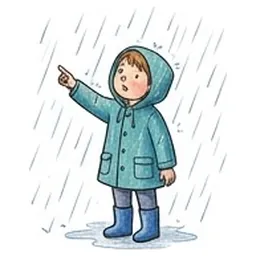
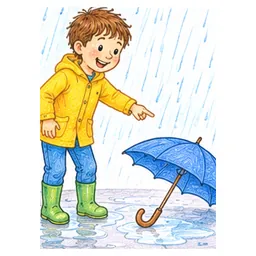
Allemand : planche B (n° 94 à 102 et brauchen refait)
Claude-Session: https://claude.ai/code/session_01UkP11uCuPaN6MyB6YyqYQX

diff --git a/jeux/allemand-mots.js b/jeux/allemand-mots.js
@@ -101,7 +101,7 @@ var DE_SVG={
 };
 function deSlug(w){return w.replace(/ä/g,"ae").replace(/ö/g,"oe").replace(/ü/g,"ue").replace(/Ä/g,"Ae").replace(/Ö/g,"Oe").replace(/Ü/g,"Ue").replace(/ß/g,"ss")}
 function deImg(w){return '<img class="deimg" src="jeux/img/de/'+deSlug(w)+'.webp" alt="" draggable="false" style="width:1.3em;height:1.3em;vertical-align:-.25em;border-radius:.18em;object-fit:contain">'}
-var DE_IMG=["Ampel","Anker","Apfel","Auge","Ball","Baum","Berg","Besen","Biene","Bleistift","Blume","Bohne","Brot","Brunnen","Buch","Bus","Butter","Bäume","Dose","Dreieck","Durst","Ei","Europa","Fahne","Feder","Flöte","Freund","Freundin","Füße","Gabel","Gans","Giraffe","Glas","Gras","Hahn","Hamster","Hand","Haus","Hexe","Hände","Häslein","Häuser","Idee","Jacke","Jahr","Junge","Jäger","Kajak","Katze","Keks","Kerze","Kessel","Kind","Kinder","Kiste","Klasse","Kleber","Klecks","Kleider","Klementine","Knicks","Koffer","Korb","Kreuzung","Kuh","Küken","Kürbis","Laterne","Lied","Lineal","Maler","Mantel","Mauer","Maus","Maßband","Milch","Mond","Musik","Mädchen","Mäppchen","Mäuse","Möhre","Nase","Nebel","Obst","Ohr","Orangensaft","Pause","Pfeife","Pferd","Pinsel","Preis","Pyramide","Qualle","Radiergummi","Regen","Reihe","Schnee","Schornsteinfeger","Schule","Schulhof","Schulranzen","Schwanz","Schüler","Schülerin","Spinne","Spitzer","Spritzgebäck","Stamm","Stiel","Strauß","Streifen","Süßigkeit","Tafel","Tannenbaum","Tasse","Tisch","Traube","Uhr","Viereck","Vogel","Vögel","Wachsmalkreide","Wald","Winter","Zeh","Zeitung","Ziege","angeln","arbeiten","basteln","beugen","blau","brauchen","braun","brennen","brüten","bunt","böse","denken","durch","falten","fliegen","froh","füttern","gelb","gut","helfen","hinter","ich","jubeln","kalt","klein","kneten","lachen","laut","lesen","leuchten","lila","links","malen","mixen","neun","piksen","pusten","raus","rechts","reißen","richtig","riechen","riesig","rot","rutschen","schnell","schwarz","schwimmen","sechs","sieben","singen","sonnig","springen","stampfen","suchen","säen","tanzen","teilen","trinken","unter","viel","voll","warm","weiß","wenig","zwei","zwölf","über"]; // mots illustrés par une image Gemini (jeux/img/de/<mot>.webp), prioritaires sur emoji et dessins
+var DE_IMG=["Ampel","Anker","Apfel","Auge","Ball","Baum","Berg","Besen","Biene","Bleistift","Blume","Bohne","Brot","Brunnen","Buch","Bus","Butter","Bäume","Dieb","Dose","Dreieck","Durst","Ei","Europa","Fahne","Feder","Flöte","Freund","Freundin","Fuß","Füße","Gabel","Gans","Giraffe","Glas","Gras","Hahn","Hamster","Hand","Haus","Hexe","Hände","Häslein","Häuser","Idee","Jacke","Jahr","Junge","Jäger","Kajak","Katze","Keks","Kerze","Kessel","Kind","Kinder","Kiste","Klasse","Kleber","Klecks","Kleider","Klementine","Knicks","Koffer","Korb","Kreuzung","Kuh","Küken","Kürbis","Laterne","Lied","Lineal","Maler","Mantel","Mauer","Maus","Maßband","Milch","Mond","Musik","Mädchen","Mäppchen","Mäuse","Möhre","Nase","Nebel","Obst","Ohr","Orangensaft","Pause","Pfeife","Pferd","Pinsel","Preis","Pyramide","Qualle","Radiergummi","Regen","Reihe","Sand","Schnee","Schornsteinfeger","Schule","Schulhof","Schulranzen","Schwanz","Schüler","Schülerin","Spinne","Spitzer","Spritzgebäck","Stamm","Stiel","Strauß","Streifen","Süßigkeit","Tafel","Tannenbaum","Tasse","Tisch","Traube","Uhr","Vase","Viereck","Vogel","Vögel","Wachsmalkreide","Wald","Weg","Wiese","Winter","Zeh","Zeitung","Ziege","angeln","arbeiten","basteln","beugen","blau","brauchen","braun","brennen","brüten","bunt","böse","denken","durch","falten","fliegen","froh","füttern","gelb","gießen","gut","helfen","hinter","ich","jubeln","jung","kalt","klein","kneten","lachen","laut","lesen","leuchten","lila","links","malen","mixen","neun","piksen","pusten","raus","rechts","reißen","richtig","riechen","riesig","rot","rutschen","schnell","schwarz","schwimmen","sechs","sieben","singen","sonnig","springen","stampfen","suchen","säen","tanzen","teilen","trinken","unter","viel","voll","warm","weiß","wenig","zwei","zwölf","öffnen","über"]; // mots illustrés par une image Gemini (jeux/img/de/<mot>.webp), prioritaires sur emoji et dessins
 var DE_WORDS=DE_RAW.map(function(s){var p=s.split("|");return{n:+p[0],a:p[1],w:p[2],e:DE_IMG.indexOf(p[2])>=0?deImg(p[2]):(p[3]||DE_SVG[p[2]]||"")}});
 var DE_DEFAULT=[1,2,3,4,5,6,7,8,9,10]; // leçons cochées par défaut (les mots de l'ancienne liste)
 // Leçons cochées pour un jeu ("dde" = Der · Die · Das, "fdw" = Finde das Wort) et un profil

diff --git a/sw.js b/sw.js
@@ -1,6 +1,6 @@
 // Service worker : fonctionnement hors ligne.
 // Pensez à changer VERSION à chaque mise à jour des fichiers pour que les téléphones la récupèrent.
-var VERSION = "v83";
+var VERSION = "v84";
 var CACHE = "jeux-ecole-" + VERSION;
 var FILES = [
   "./",
@@ -31,6 +31,7 @@ var FILES = [
   "jeux/img/de/Bus.webp",
   "jeux/img/de/Butter.webp",
   "jeux/img/de/Baeume.webp",
+  "jeux/img/de/Dieb.webp",
   "jeux/img/de/Dose.webp",
   "jeux/img/de/Dreieck.webp",
   "jeux/img/de/Durst.webp",
@@ -41,6 +42,7 @@ var FILES = [
   "jeux/img/de/Floete.webp",
   "jeux/img/de/Freund.webp",
   "jeux/img/de/Freundin.webp",
+  "jeux/img/de/Fuss.webp",
   "jeux/img/de/Fuesse.webp",
   "jeux/img/de/Gabel.webp",
   "jeux/img/de/Gans.webp",
@@ -110,6 +112,7 @@ var FILES = [
   "jeux/img/de/Radiergummi.webp",
   "jeux/img/de/Regen.webp",
   "jeux/img/de/Reihe.webp",
+  "jeux/img/de/Sand.webp",
   "jeux/img/de/Schnee.webp",
   "jeux/img/de/Schornsteinfeger.webp",
   "jeux/img/de/Schule.webp",
@@ -132,11 +135,14 @@ var FILES = [
   "jeux/img/de/Tisch.webp",
   "jeux/img/de/Traube.webp",
   "jeux/img/de/Uhr.webp",
+  "jeux/img/de/Vase.webp",
   "jeux/img/de/Viereck.webp",
   "jeux/img/de/Vogel.webp",
   "jeux/img/de/Voegel.webp",
   "jeux/img/de/Wachsmalkreide.webp",
   "jeux/img/de/Wald.webp",
+  "jeux/img/de/Weg.webp",
+  "jeux/img/de/Wiese.webp",
   "jeux/img/de/Winter.webp",
   "jeux/img/de/Zeh.webp",
   "jeux/img/de/Zeitung.webp",
@@ -159,11 +165,13 @@ var FILES = [
   "jeux/img/de/froh.webp",
   "jeux/img/de/fuettern.webp",
   "jeux/img/de/gelb.webp",
+  "jeux/img/de/giessen.webp",
   "jeux/img/de/gut.webp",
   "jeux/img/de/helfen.webp",
   "jeux/img/de/hinter.webp",
   "jeux/img/de/ich.webp",
   "jeux/img/de/jubeln.webp",
+  "jeux/img/de/jung.webp",
   "jeux/img/de/kalt.webp",
   "jeux/img/de/klein.webp",
   "jeux/img/de/kneten.webp",
@@ -208,6 +216,7 @@ var FILES = [
   "jeux/img/de/wenig.webp",
   "jeux/img/de/zwei.webp",
   "jeux/img/de/zwoelf.webp",
+  "jeux/img/de/oeffnen.webp",
   "jeux/img/de/ueber.webp",
   // /images-de
   "jeux/code.html",

diff --git a/CLAUDE.md b/CLAUDE.md
@@ -101,7 +101,7 @@ Cibles >= 56px, bordures 3px, textes secondaires >= 16px, menus centrés vertica
 - Rangé comme le manuel de CP « Die Rappelkiste » : `DE_MODULES` (périodes 1-5, modules 1a…12, leçons 1-32), `DE_LETTERS` (lettre de chaque leçon), `DE_RAW` = `leçon|article|mot|image`. Leçons 1-32 : mots des encadrés de vocabulaire du livre (photos envoyées par l'utilisateur ; un mot déjà vu dans une leçon précédente n'est pas répété ; mots sans image possible — prépositions, verbes abstraits — seulement dans Der·Die·Das s'ils ont un article, sinon absents des jeux à image) ; annexes de fin de livre en période 6 (`pt` = « 📚 Fin du livre », titre affiché à la place de « Période ») : leçon 33 « Cartes des lettres » (Feder, Tasse, Vase, Giraffe) et leçon 34 « Vers le CE1 » (Pferd, Qualle, öffnen, zwölf, Katze, Dreieck, angeln, Anker, wenig, Mäuse, Pyramide). Ne reprendre que les mots, jamais les images ni les textes du livre.
 - Paramètres → 🎮 Réglages des jeux → Der · Die · Das / Finde das Wort : leçons cochées **par jeu et par profil** (clés `de_sel_dde@<profil>`, `de_sel_fdw@<profil>`, défaut `DE_DEFAULT` = leçons 1-10). Les jeux ne tirent que les mots des leçons cochées (message s'il y en a moins de 3).
 - **Dictionnaire hors manuel** (à la demande de l'utilisateur) : mots ajoutés en dehors du manuel, en **leçon 100** (`DE_DICT`, module `dico` « 📖 Dictionnaire · Mots en plus », période 0 affichée « 📖 Hors manuel » dans les réglages des leçons). **Coché d'office** dans tous les jeux (`deSelected` l'ajoute sauf si la liste enregistrée contient `-100` = décoché volontairement ; `deSave` ajoute `-100` quand il n'est pas coché). Mots : **die Klementine** (dessin `DE_SVG` : deux clémentines ; aussi dans `DE_BUY` pour la liste des courses). Pour ajouter un mot : une ligne `"100|article|Mot|emoji"` (ou image vide + dessin dans `DE_SVG`).
-- **Images Gemini (en cours)** : l'utilisateur génère les images des mots dans l'appli Gemini de son téléphone, un peu chaque jour, avec les consignes de `outils/gemini-images.md` (produit par `outils/gen_prompts.py` : style commun + sujet par mot, 230 mots, mots sans image d'abord, 20 par jour). Il renvoie les images dans la session avec leurs numéros (conseil donné : coller d'abord un message de style unique dans une nouvelle conversation, puis un sujet par message ; Gemini peut proposer plusieurs variantes, on garde la meilleure). Intégration : `python3 outils/images.py <image> <Mot> …` rogne le blanc, met en carré, réduit à 256 px, enregistre `jeux/img/de/<slug>.webp` (ä→ae, ö→oe, ü→ue, ß→ss), met à jour `DE_IMG` dans `allemand-mots.js` (l'image est prioritaire sur l'emoji et le dessin : `deImg` = `<img class="deimg">` 1,3em, chemin relatif à l'accueil) et la liste entre `// images-de` dans `sw.js`. Puis changer `VERSION`. Faites : 1 à 68 (planches découpées ; les cases à bordure grise sont détectées par profils de pixels non blancs, puis rognées de 9 px). Gemini peut générer une planche de 20 images en une fois : découper en grille (cases de largeur/5), puis outils/images.py. Noter chaque mot Gemini fait dans `outils/gemini-faits.txt`.
+- **Images Gemini (en cours)** : l'utilisateur génère les images des mots dans l'appli Gemini de son téléphone, un peu chaque jour, avec les consignes de `outils/gemini-images.md` (produit par `outils/gen_prompts.py` : style commun + sujet par mot, 230 mots, mots sans image d'abord, 20 par jour). Il renvoie les images dans la session avec leurs numéros (conseil donné : coller d'abord un message de style unique dans une nouvelle conversation, puis un sujet par message ; Gemini peut proposer plusieurs variantes, on garde la meilleure). Intégration : `python3 outils/images.py <image> <Mot> …` rogne le blanc, met en carré, réduit à 256 px, enregistre `jeux/img/de/<slug>.webp` (ä→ae, ö→oe, ü→ue, ß→ss), met à jour `DE_IMG` dans `allemand-mots.js` (l'image est prioritaire sur l'emoji et le dessin : `deImg` = `<img class="deimg">` 1,3em, chemin relatif à l'accueil) et la liste entre `// images-de` dans `sw.js`. Puis changer `VERSION`. Faites : 1 à 68 et 94 à 102, brauchen refait avec parapluie (planches découpées ; les cases à bordure grise sont détectées par profils de pixels non blancs, puis rognées de 9 px). Gemini peut générer une planche de 20 images en une fois : découper en grille (cases de largeur/5), puis outils/images.py. Noter chaque mot Gemini fait dans `outils/gemini-faits.txt`.
 - **Fluent Emoji 3D** (à la demande de l'utilisateur : « Fluent pour tout ce qui représente très bien les mots, Gemini pour les autres ») : `outils/fluent.py` (liste `F` mot → emoji ; plusieurs emoji = images côte à côte, ex. Vögel, Bäume, Mäuse, zwölf) télécharge `@lobehub/fluent-emoji-3d` (npm, MIT) et écrit `jeux/img/de/<slug>.webp`, sans jamais écraser un mot de `gemini-faits.txt`. 128 mots en Fluent ; retirés car pas assez clairs : Fuß, Nebel, waschen, Freund, Freundin (→ Gemini). Ensuite (demande de l'utilisateur : « passer toute émoticône en images générées », style crayon unique) : les mots Fluent sont numérotés 103-230 dans `gemini-images.md`, et `outils/gemini-planches.md` donne des planches de 25 prêtes à coller (planche 1 = refaire aussi kneten et der Jäger). Une image Gemini remplace l'image Fluent (ajouter le mot à `gemini-faits.txt`).
 - Pas de doublon d'emoji entre mots (sinon deux réponses auraient la même image).
 - `DE_SVG` (dans `allemand-mots.js`) : dessins maison partagés par **tous** les jeux d'allemand quand un emoji ne suffit pas (taille 1,3em, comme un emoji) ; utilisé si le champ image de `DE_RAW` est vide. Pour l'instant : **Obst = corbeille de fruits** (banane, raisin, pomme, orange), à la demande de l'utilisateur (une fraise ne voulait pas dire « les fruits ») ; **teilen = chocolat cassé en deux, une moitié pour chaque enfant** (choix A de l'utilisateur ; 🤝 faisait penser à « saluer ») ; **Flöte = flûte à bec** (🪈 absent des anciens Android) ; **Qualle = méduse violette souriante** (🪼 absent des anciens Android) ; **Pyramide = pyramide dans le désert avec le soleil** (à la demande de l'utilisateur) ; dessins des noms sans emoji (à la demande de l'utilisateur) : Junge, Mädchen, Schüler/Schülerin (enfant avec cartable et livre), Schornsteinfeger, Jäger (chapeau à plume, jumelles, sans arme), Spritzgebäck, Kleber (bâton de colle), Schwanz (queue de renard), Pfeife (**sifflet**, pas une pipe), Zeh (pied, flèche sur le gros orteil), Kessel, Klecks, Jacke, Stiel (fleur, flèche sur la tige), Streifen, Kreuzung, Maßband. Restent sans image : der Durst, der Knicks, les verbes, adjectifs et petits mots abstraits.
